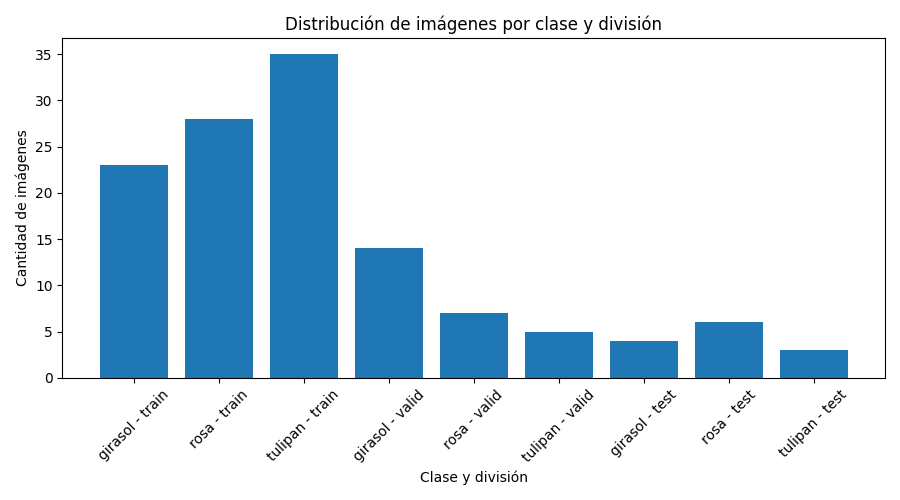
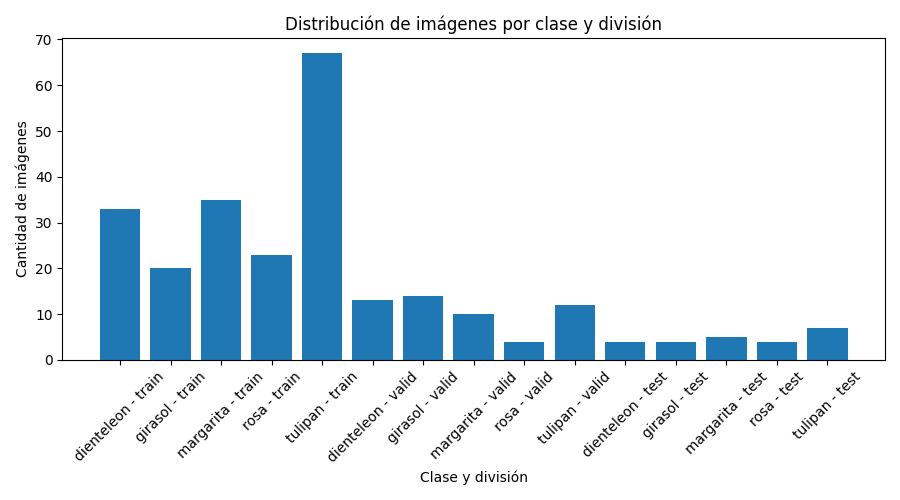
Actualiza avance 2 con dataset de 5 clases

diff --git a/main.py b/main.py
@@ -170,8 +170,8 @@ print("- resultados/ejemplos_dataset.png")
 
 print("\nConclusión del avance:")
 print("El dataset inicial de imágenes está organizado en train, valid y test.")
-print("Las clases encontradas corresponden a flores que serán clasificadas por el modelo.")
-print("El dataset se encuentra relativamente balanceado entre girasol, rosa y tulipan.")
+print("Las clases encontradas corresponden a cinco tipos de flores: dienteleon, girasol, margarita, rosa y tulipan.")
+print("El dataset presenta una distribución no completamente balanceada, ya que la clase tulipan posee más imágenes que rosa y girasol.")
 print("En esta etapa no se entrena el modelo, solo se prepara y analiza el dataset.")
 
 print("\nPróximo paso:")
